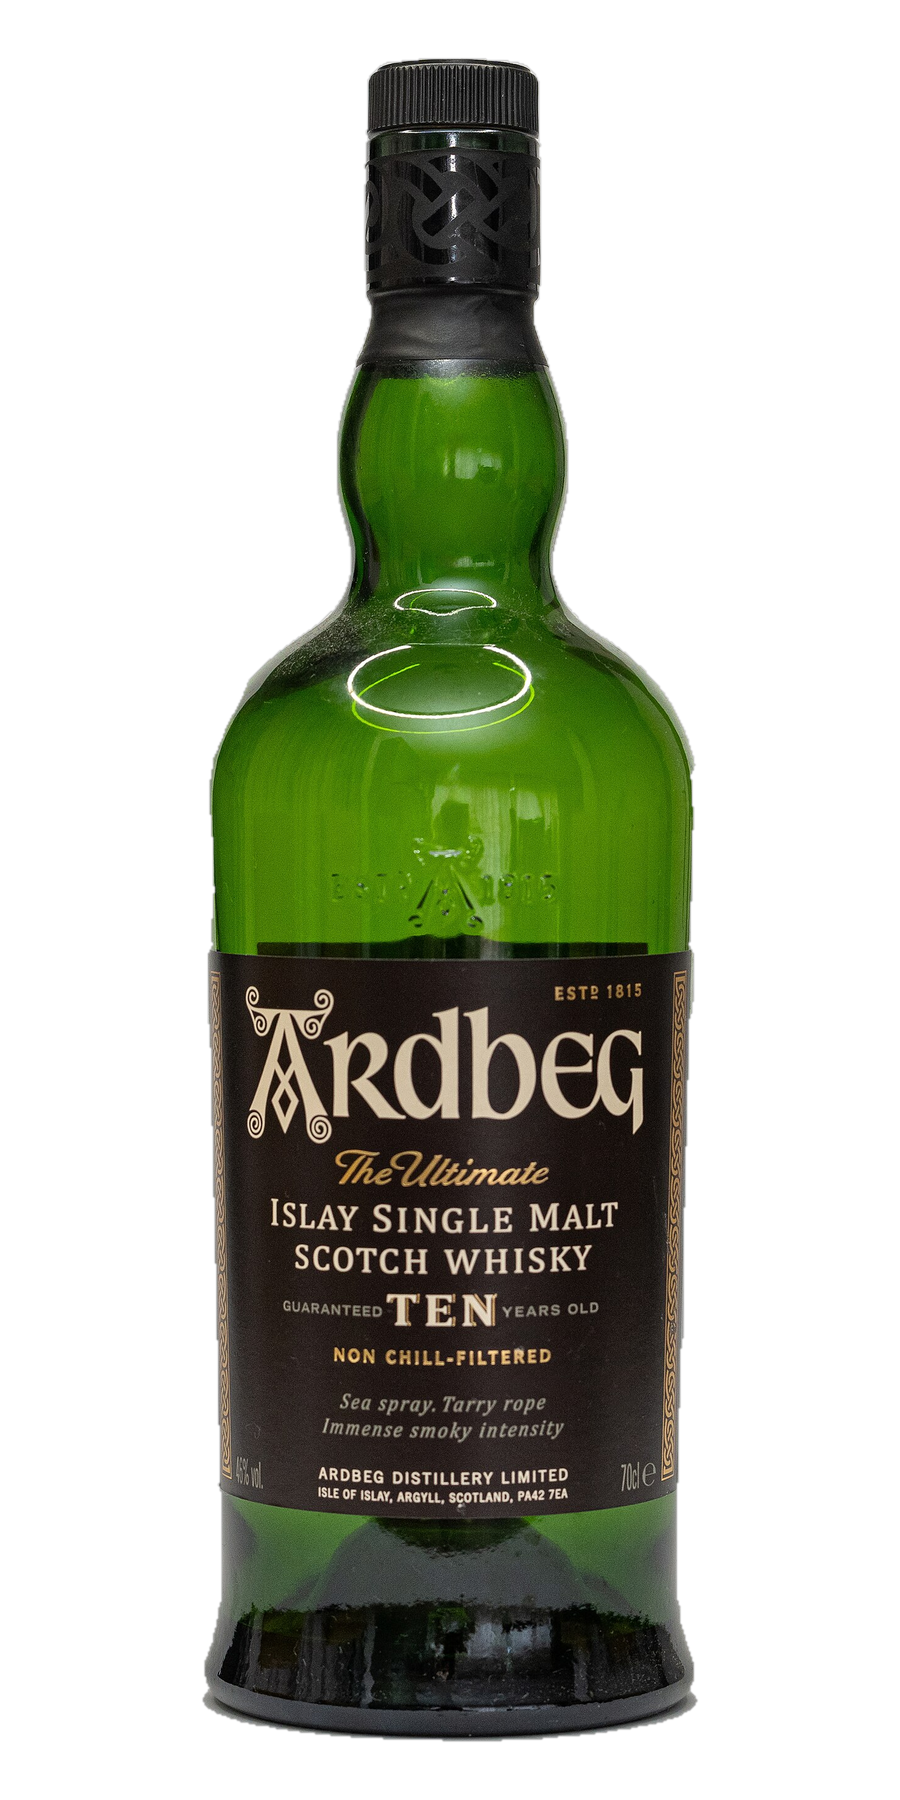
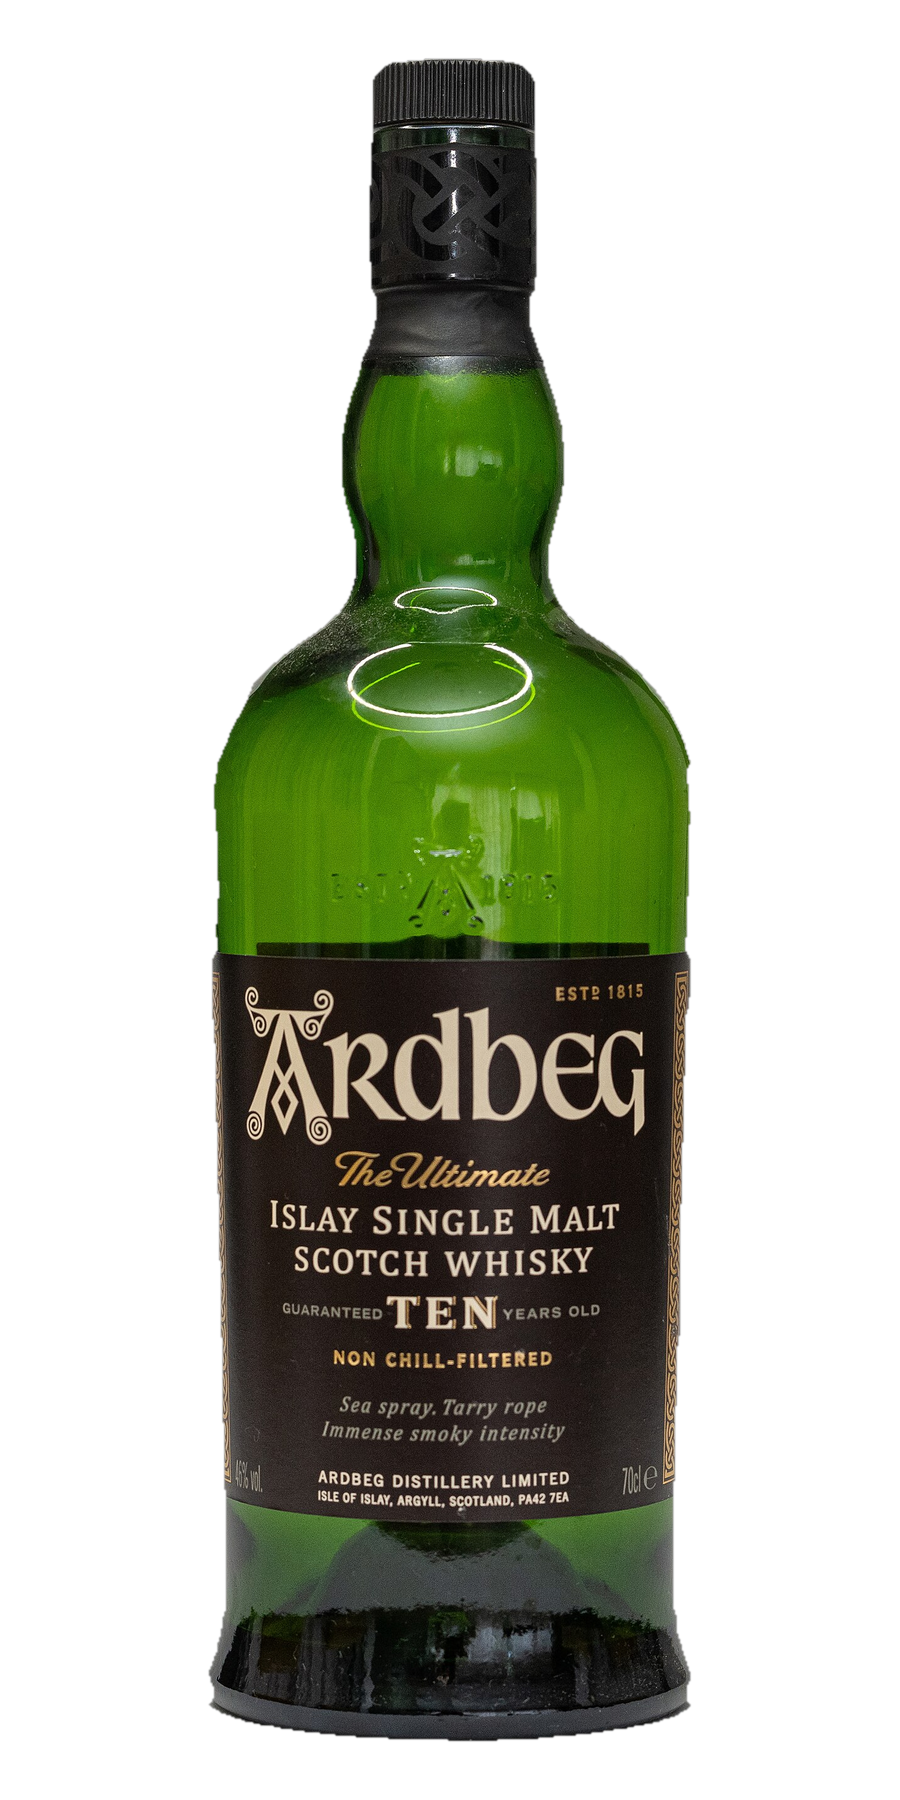
Erode the key mask so cut-outs stop shipping a halo
The mask is computed at WORK_W and upscaled, so its boundary was accurate
only to ~5 source pixels and sat outside the true edge, keeping RGB that is
part glass and part studio ground. The Ardbeg's boundary sat 44% of the way
from glass to ground — invisible against the pale ground it was shot on,
a ragged pale rim against the site's.

ERODE pulls the boundary inside the glass before the upscale; the Ardbeg
now measures 17%. Solidity and crossings only catch a cut in pieces, so
edge_bleed() measures the rim directly and refuses over 30% — it rejects
what this tool produced yesterday.

diff --git a/tools/images/normalise.py b/tools/images/normalise.py
@@ -33,9 +33,19 @@ HEIGHT_FILL = 0.94     # subject height as a fraction of the canvas
 WIDTH_MAX = 0.90       # a wide bottle scales to width instead
 
 WORK_W = 700           # the mask is computed small, then scaled up: faster, and
-                       # the upscale feathers the edge for free
+                       # the upscale feathers the edge
 STEP = 9               # tolerance against the neighbouring accepted pixel
 BAND = 70              # tolerance against the median edge value, overall
+
+# The upscale does NOT feather for free — it feathers a boundary that is only
+# accurate to WORK_W, so on a 3547px source each mask pixel covers five, and the
+# ramp lands outside the true edge. Those pixels keep their original RGB, which
+# there is part glass and part studio ground, so the bottle ships wearing a pale
+# ragged rim that is invisible against the ground it was shot on and obvious
+# against anything darker. Erode the small mask to pull the boundary inside the
+# bottle and throw the contaminated ring away. Measured on the Ardbeg: the
+# boundary sits 44% of the way from glass to ground uneroded, 17% at 7.
+ERODE = 7              # MinFilter window on the WORK_W mask; 0 disables
 
 # Refusal thresholds, measured against real Commons files. A clean cut of a
 # studio shot keys ~70% of the frame and leaves a subject of aspect ~0.30; a
@@ -54,6 +64,14 @@ ASPECT_RANGE = (0.18, 0.60)
 # crossings 2. Red curtain: 0.13 and 4. Pine ground: 0.46 and 4.
 MIN_SOLIDITY = 0.55
 MAX_MEDIAN_CROSSINGS = 2
+
+# Solidity and crossings catch a cut in pieces. Neither catches a cut that is
+# whole but rimmed with surviving ground: the silhouette is perfect and every
+# number passes while the bottle wears a halo. Measure it directly instead —
+# how far the boundary pixels sit from the body of the bottle, along the line
+# from the bottle towards the ground. 0.0 is a boundary the colour of the
+# subject; 1.0 is a boundary that is simply background.
+MAX_EDGE_BLEED = 0.30
 
 
 class Refused(Exception):
@@ -100,8 +118,10 @@ def background_mask(im):
     keyed = sum(seen) / len(seen)
     mask = Image.frombytes("L", (w, h), bytes(0 if s else 255 for s in seen))
     mask = mask.filter(ImageFilter.MedianFilter(5))          # despeckle
+    if ERODE:
+        mask = mask.filter(ImageFilter.MinFilter(ERODE))     # pull inside the glass
     mask = mask.resize(im.size, Image.LANCZOS)               # and feather
-    return mask.filter(ImageFilter.GaussianBlur(1.2)), keyed
+    return mask.filter(ImageFilter.GaussianBlur(1.2)), keyed, ref
 
 
 def silhouette(subject):
@@ -120,13 +140,45 @@ def silhouette(subject):
     return opaque / (w * len(rows)), crossings[len(crossings) // 2]
 
 
+def luma(rgb):
+    return 0.2126 * rgb[0] + 0.7152 * rgb[1] + 0.0722 * rgb[2]
+
+
+def edge_bleed(canvas, ref):
+    """How far the boundary sits from the bottle, towards the ground it was shot on.
+
+    Reads the first and last opaque pixel of each scanline and compares their
+    luma with the bottle a little further in. Expressed as a fraction of the
+    distance from the body to `ref`, so it does not care whether the ground was
+    lighter or darker than the glass, only whether the ground survived.
+    """
+    px = canvas.load()
+    alpha = canvas.getchannel("A").load()
+    w, h = canvas.size
+    boundary, body = [], []
+    for y in range(40, h - 40, 3):
+        xs = [x for x in range(w) if alpha[x, y] > 200]
+        if len(xs) < 40:
+            continue
+        l, r = xs[0], xs[-1]
+        boundary += [luma(px[l, y]), luma(px[r, y])]
+        body += [luma(px[l + 18, y]), luma(px[r - 18, y]), luma(px[(l + r) // 2, y])]
+    if not boundary:
+        return 0.0
+    edge = sorted(boundary)[len(boundary) // 2]
+    core = sorted(body)[len(body) // 2]
+    if abs(ref - core) < 1:
+        return 0.0
+    return (edge - core) / (ref - core)
+
+
 def normalise(src_path):
     im = ImageOps.exif_transpose(Image.open(src_path))
 
     if im.mode in ("RGBA", "LA") and im.getchannel("A").getextrema()[0] < 255:
-        cut, keyed = im.convert("RGBA"), None   # already cut out elsewhere
+        cut, keyed, ref = im.convert("RGBA"), None, None   # already cut out elsewhere
     else:
-        mask, keyed = background_mask(im.convert("RGB"))
+        mask, keyed, ref = background_mask(im.convert("RGB"))
         if not KEYED_RANGE[0] <= keyed <= KEYED_RANGE[1]:
             raise Refused(
                 f"keyed {keyed:.0%} of the frame, outside "
@@ -176,7 +228,18 @@ def normalise(src_path):
     if any(corners):
         raise Refused(f"canvas corners are not transparent: {corners}")
 
-    return canvas, keyed, subject.size, solidity
+    bleed = None if ref is None else edge_bleed(canvas, ref)
+    if bleed is not None and bleed > MAX_EDGE_BLEED:
+        raise Refused(
+            f"the ground survived as a halo — the boundary sits {bleed:.0%} of "
+            f"the way from the bottle to the background (want "
+            f"{MAX_EDGE_BLEED:.0%} or less). The silhouette is whole, so this "
+            f"will not show against the ground it was shot on; it shows against "
+            f"the site's. Raise ERODE, or source a photograph whose edge is not "
+            f"this soft."
+        )
+
+    return canvas, keyed, subject.size, solidity, bleed
 
 
 def preview(canvas, path):
@@ -212,14 +275,15 @@ def main(argv):
         sys.exit("dest must be a .png — a cut-out in JPEG has no alpha channel")
 
     try:
-        canvas, keyed, size, solidity = normalise(src)
+        canvas, keyed, size, solidity, bleed = normalise(src)
     except Refused as why:
         sys.exit(f"refused: {why}")
 
     canvas.save(dest)
     keyed_note = f"keyed {keyed:.0%}, " if keyed is not None else "already cut out, "
+    bleed_note = "" if bleed is None else f", edge bleed {bleed:.0%}"
     print(f"{dest}: {keyed_note}subject {size[0]}x{size[1]} on "
-          f"{CANVAS[0]}x{CANVAS[1]}, solidity {solidity:.2f}")
+          f"{CANVAS[0]}x{CANVAS[1]}, solidity {solidity:.2f}{bleed_note}")
 
     if "--preview" in argv:
         out = argv[argv.index("--preview") + 1]

diff --git a/.claude/skills/peatyscot-images/SKILL.md b/.claude/skills/peatyscot-images/SKILL.md
@@ -86,10 +86,17 @@ centres on the canvas.
 | `the cut is in pieces` | The ground ran into the glass and the key ate the bottle. Solidity and edge-crossings measure this; size and aspect alone pass a shredded cut, which is how both photographs currently in the repo measured as plausible while being confetti. Find a different photograph — no threshold rescues it. |
 | `that is not a bottle` | The background survived the cut, or there is a carton or second bottle in the frame. |
 | `keyed N% of the frame` | The ground is too close in tone to the bottle to separate at all. |
+| `the ground survived as a halo` | The silhouette is whole but rimmed with background: the mask is computed at `WORK_W` and upscaled, so its boundary lands outside the true edge and those pixels keep RGB that is part glass, part ground. `ERODE` pulls the boundary inside the bottle and normally settles this; the refusal means the photograph's edge is softer than the erosion can absorb. This one is invisible in the source — a pale rim against a pale studio ground — and obvious on the site. |
 
 Then **look at the preview**. It shows the cut-out on a checkerboard and on the site's
 dark ground, because holes and haloes only show against a ground the photograph was not
 shot on. A cut that passes every numeric check can still have a chewed edge.
+
+The numbers to read in the tool's own line: `keyed` near 70%, `solidity` above 0.55, and
+`edge bleed` — how far the boundary sits from the bottle towards the ground, 0% being a
+boundary the colour of the glass and 100% a boundary that is simply background. The Ardbeg
+runs 17%. Anything approaching the 30% limit is worth looking at closely even though it
+passes.
 
 ## 4. Record provenance, and that you modified it
 
